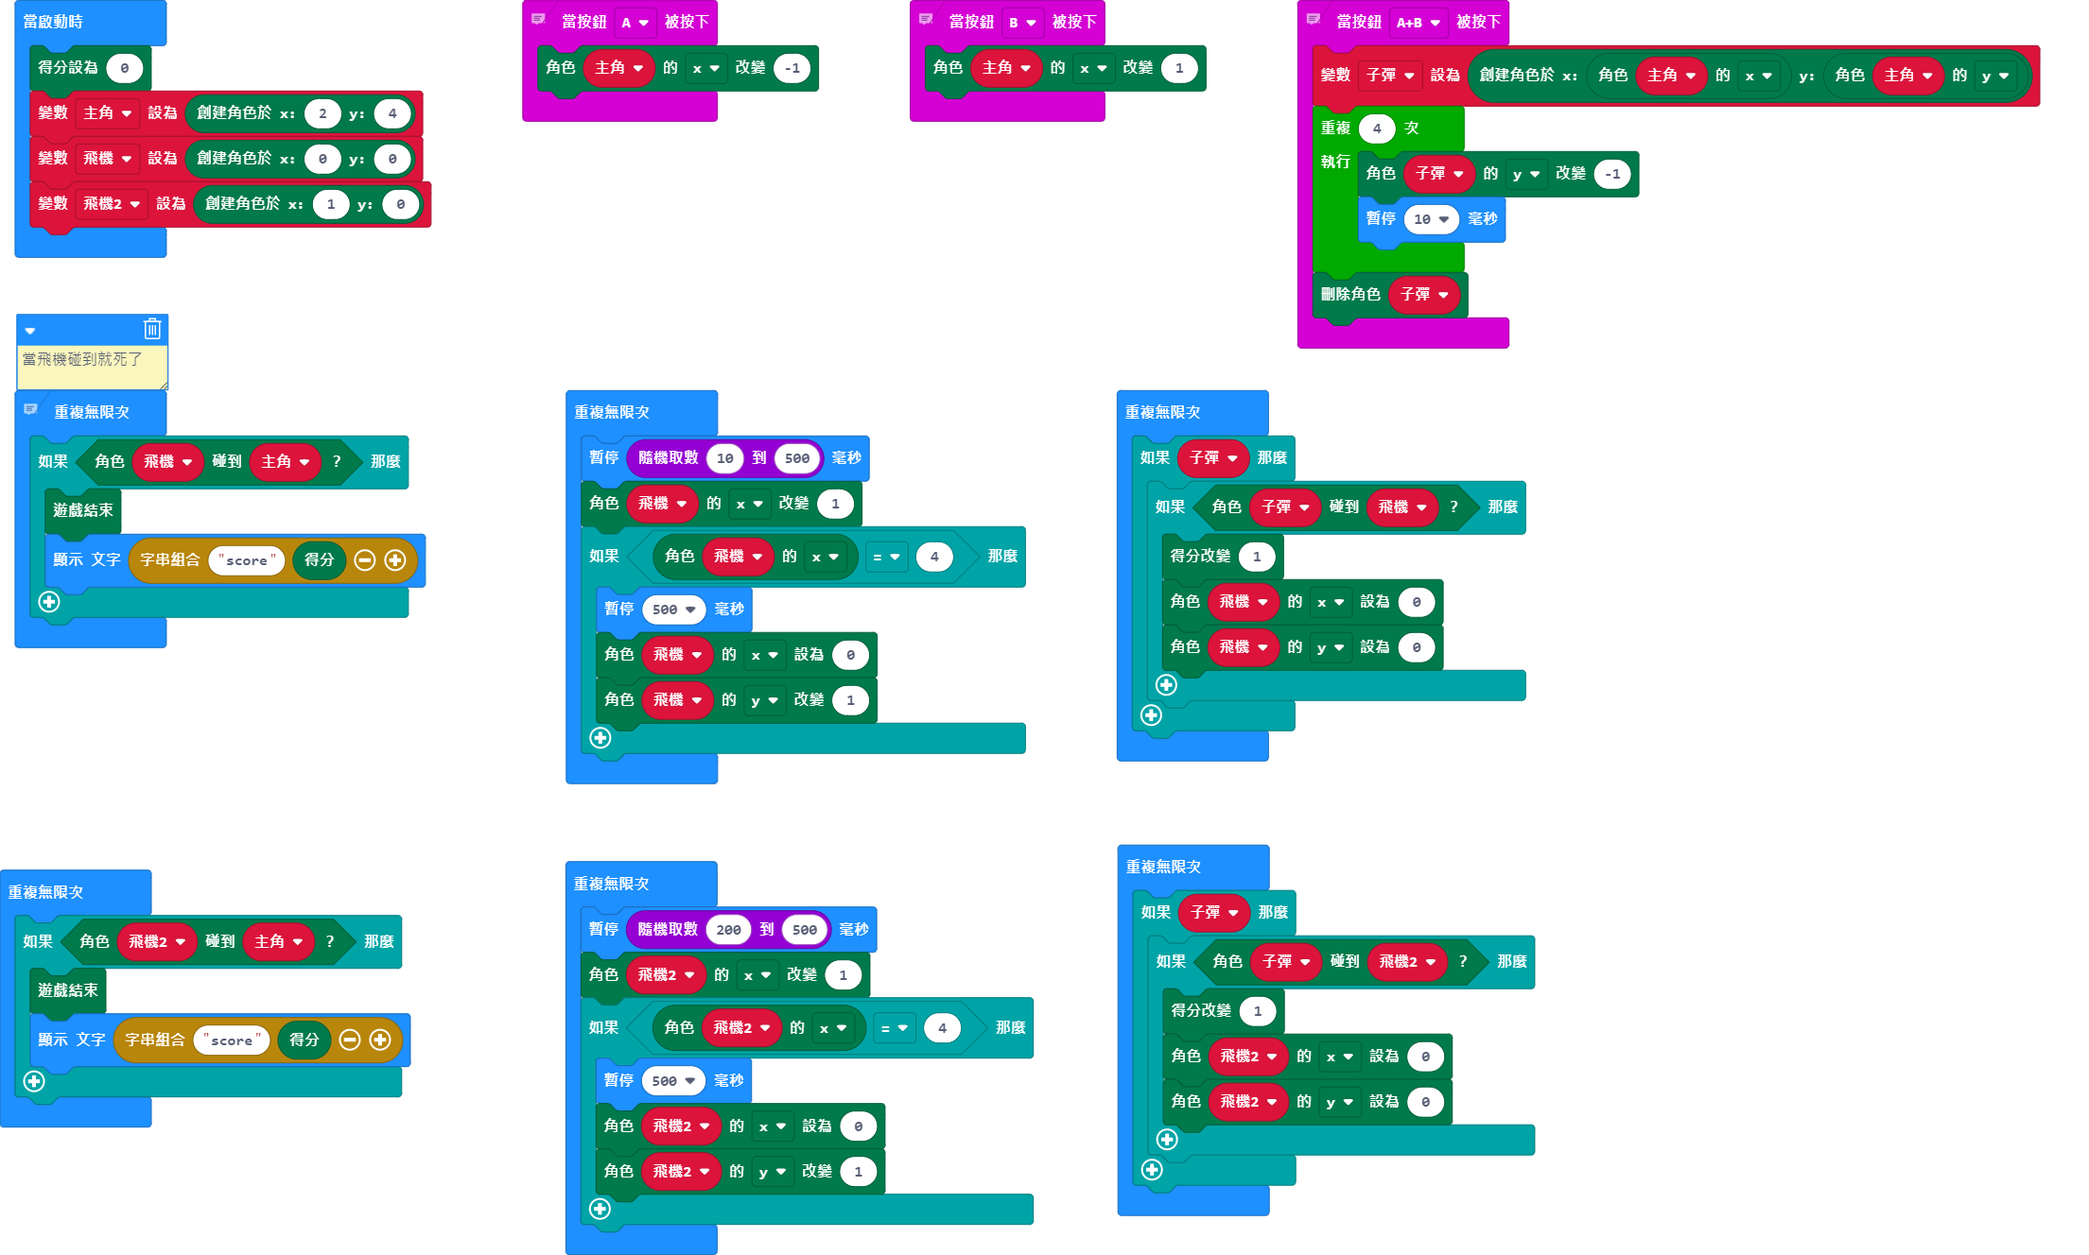
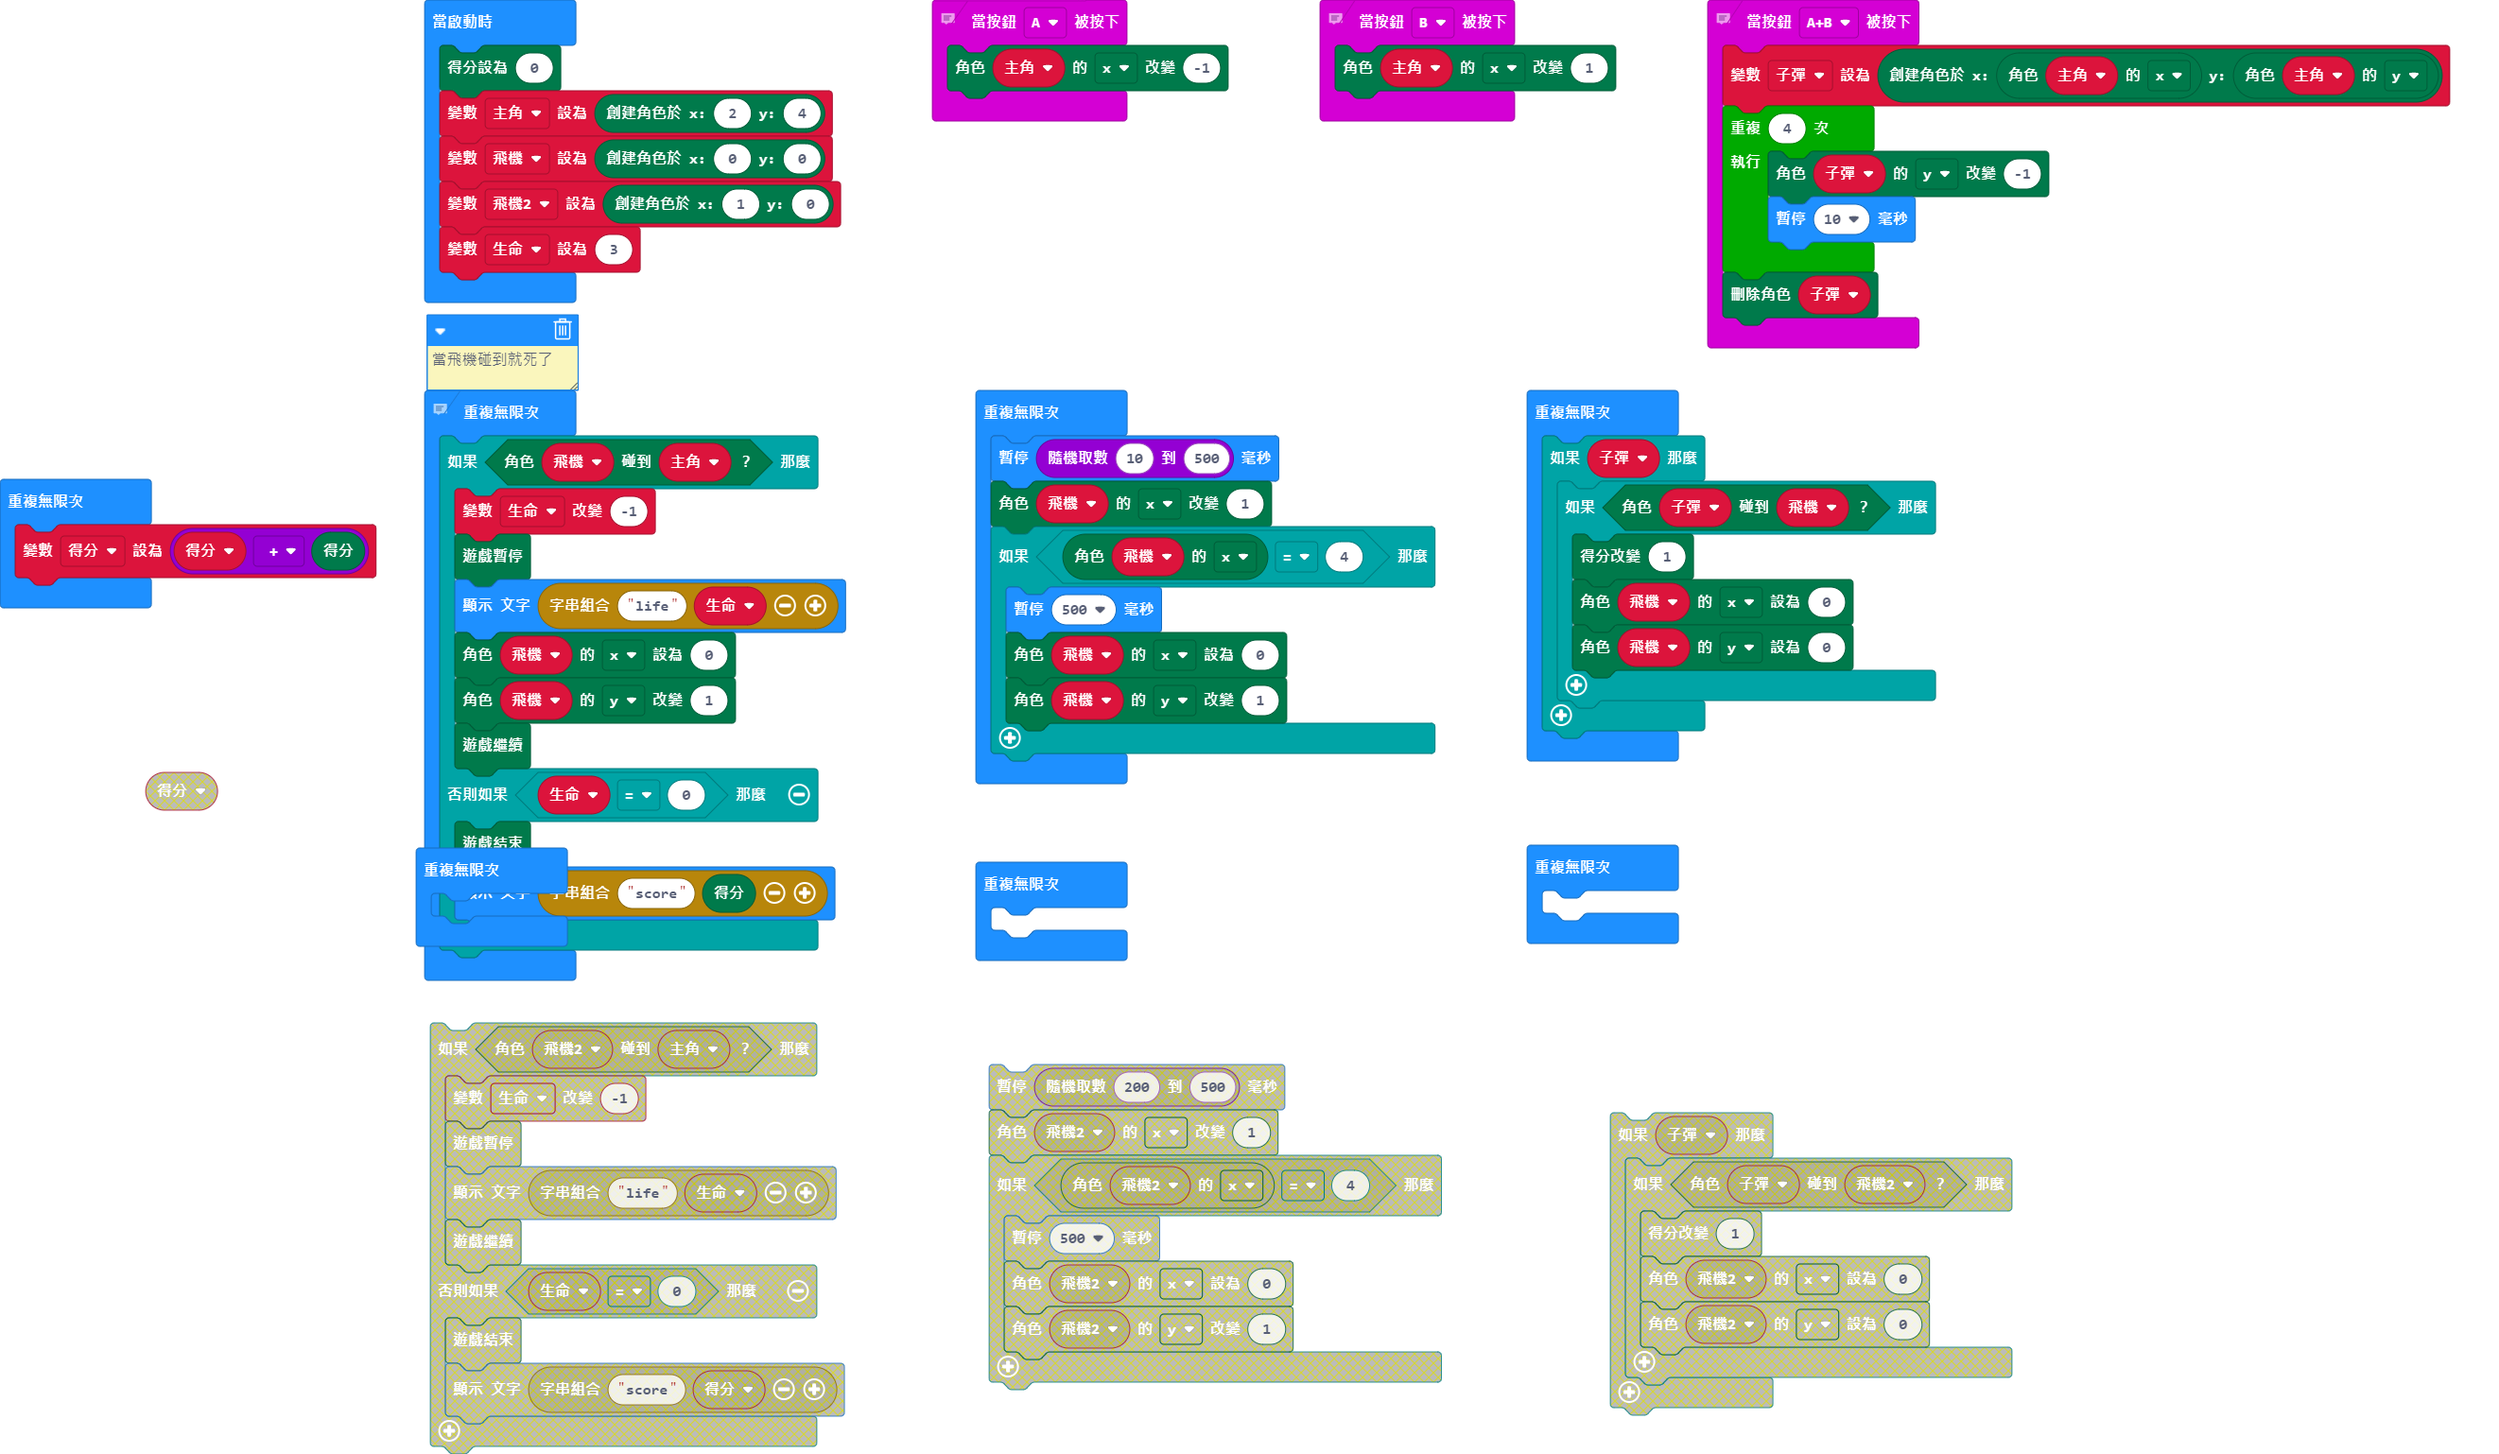
更新 main.blocks, main.ts

diff --git a/main.ts b/main.ts
@@ -15,15 +15,24 @@ input.onButtonPressed(Button.AB, function () {
 input.onButtonPressed(Button.B, function () {
     主角.change(LedSpriteProperty.X, 1)
 })
+let 得分 = 0
 let 子彈: game.LedSprite = null
 let 主角: game.LedSprite = null
 game.setScore(0)
 主角 = game.createSprite(2, 4)
 let 飛機 = game.createSprite(0, 0)
 let 飛機2 = game.createSprite(1, 0)
+let 生命 = 3
 // 當飛機碰到就死了
 basic.forever(function () {
     if (飛機.isTouching(主角)) {
+        生命 += -1
+        game.pause()
+        basic.showString("life" + 生命)
+        飛機.set(LedSpriteProperty.X, 0)
+        飛機.change(LedSpriteProperty.Y, 1)
+        game.resume()
+    } else if (生命 == 0) {
         game.gameOver()
         basic.showString("score" + game.score())
     }
@@ -47,26 +56,14 @@ basic.forever(function () {
     }
 })
 basic.forever(function () {
-    if (飛機2.isTouching(主角)) {
-        game.gameOver()
-        basic.showString("score" + game.score())
-    }
+    得分 = 得分 + game.score()
 })
 basic.forever(function () {
-    basic.pause(randint(200, 500))
-    飛機2.change(LedSpriteProperty.X, 1)
-    if (飛機2.get(LedSpriteProperty.X) == 4) {
-        basic.pause(500)
-        飛機2.set(LedSpriteProperty.X, 0)
-        飛機2.change(LedSpriteProperty.Y, 1)
-    }
+	
 })
 basic.forever(function () {
-    if (子彈) {
-        if (子彈.isTouching(飛機2)) {
-            game.addScore(1)
-            飛機2.set(LedSpriteProperty.X, 0)
-            飛機2.set(LedSpriteProperty.Y, 0)
-        }
-    }
+	
+})
+basic.forever(function () {
+	
 })
